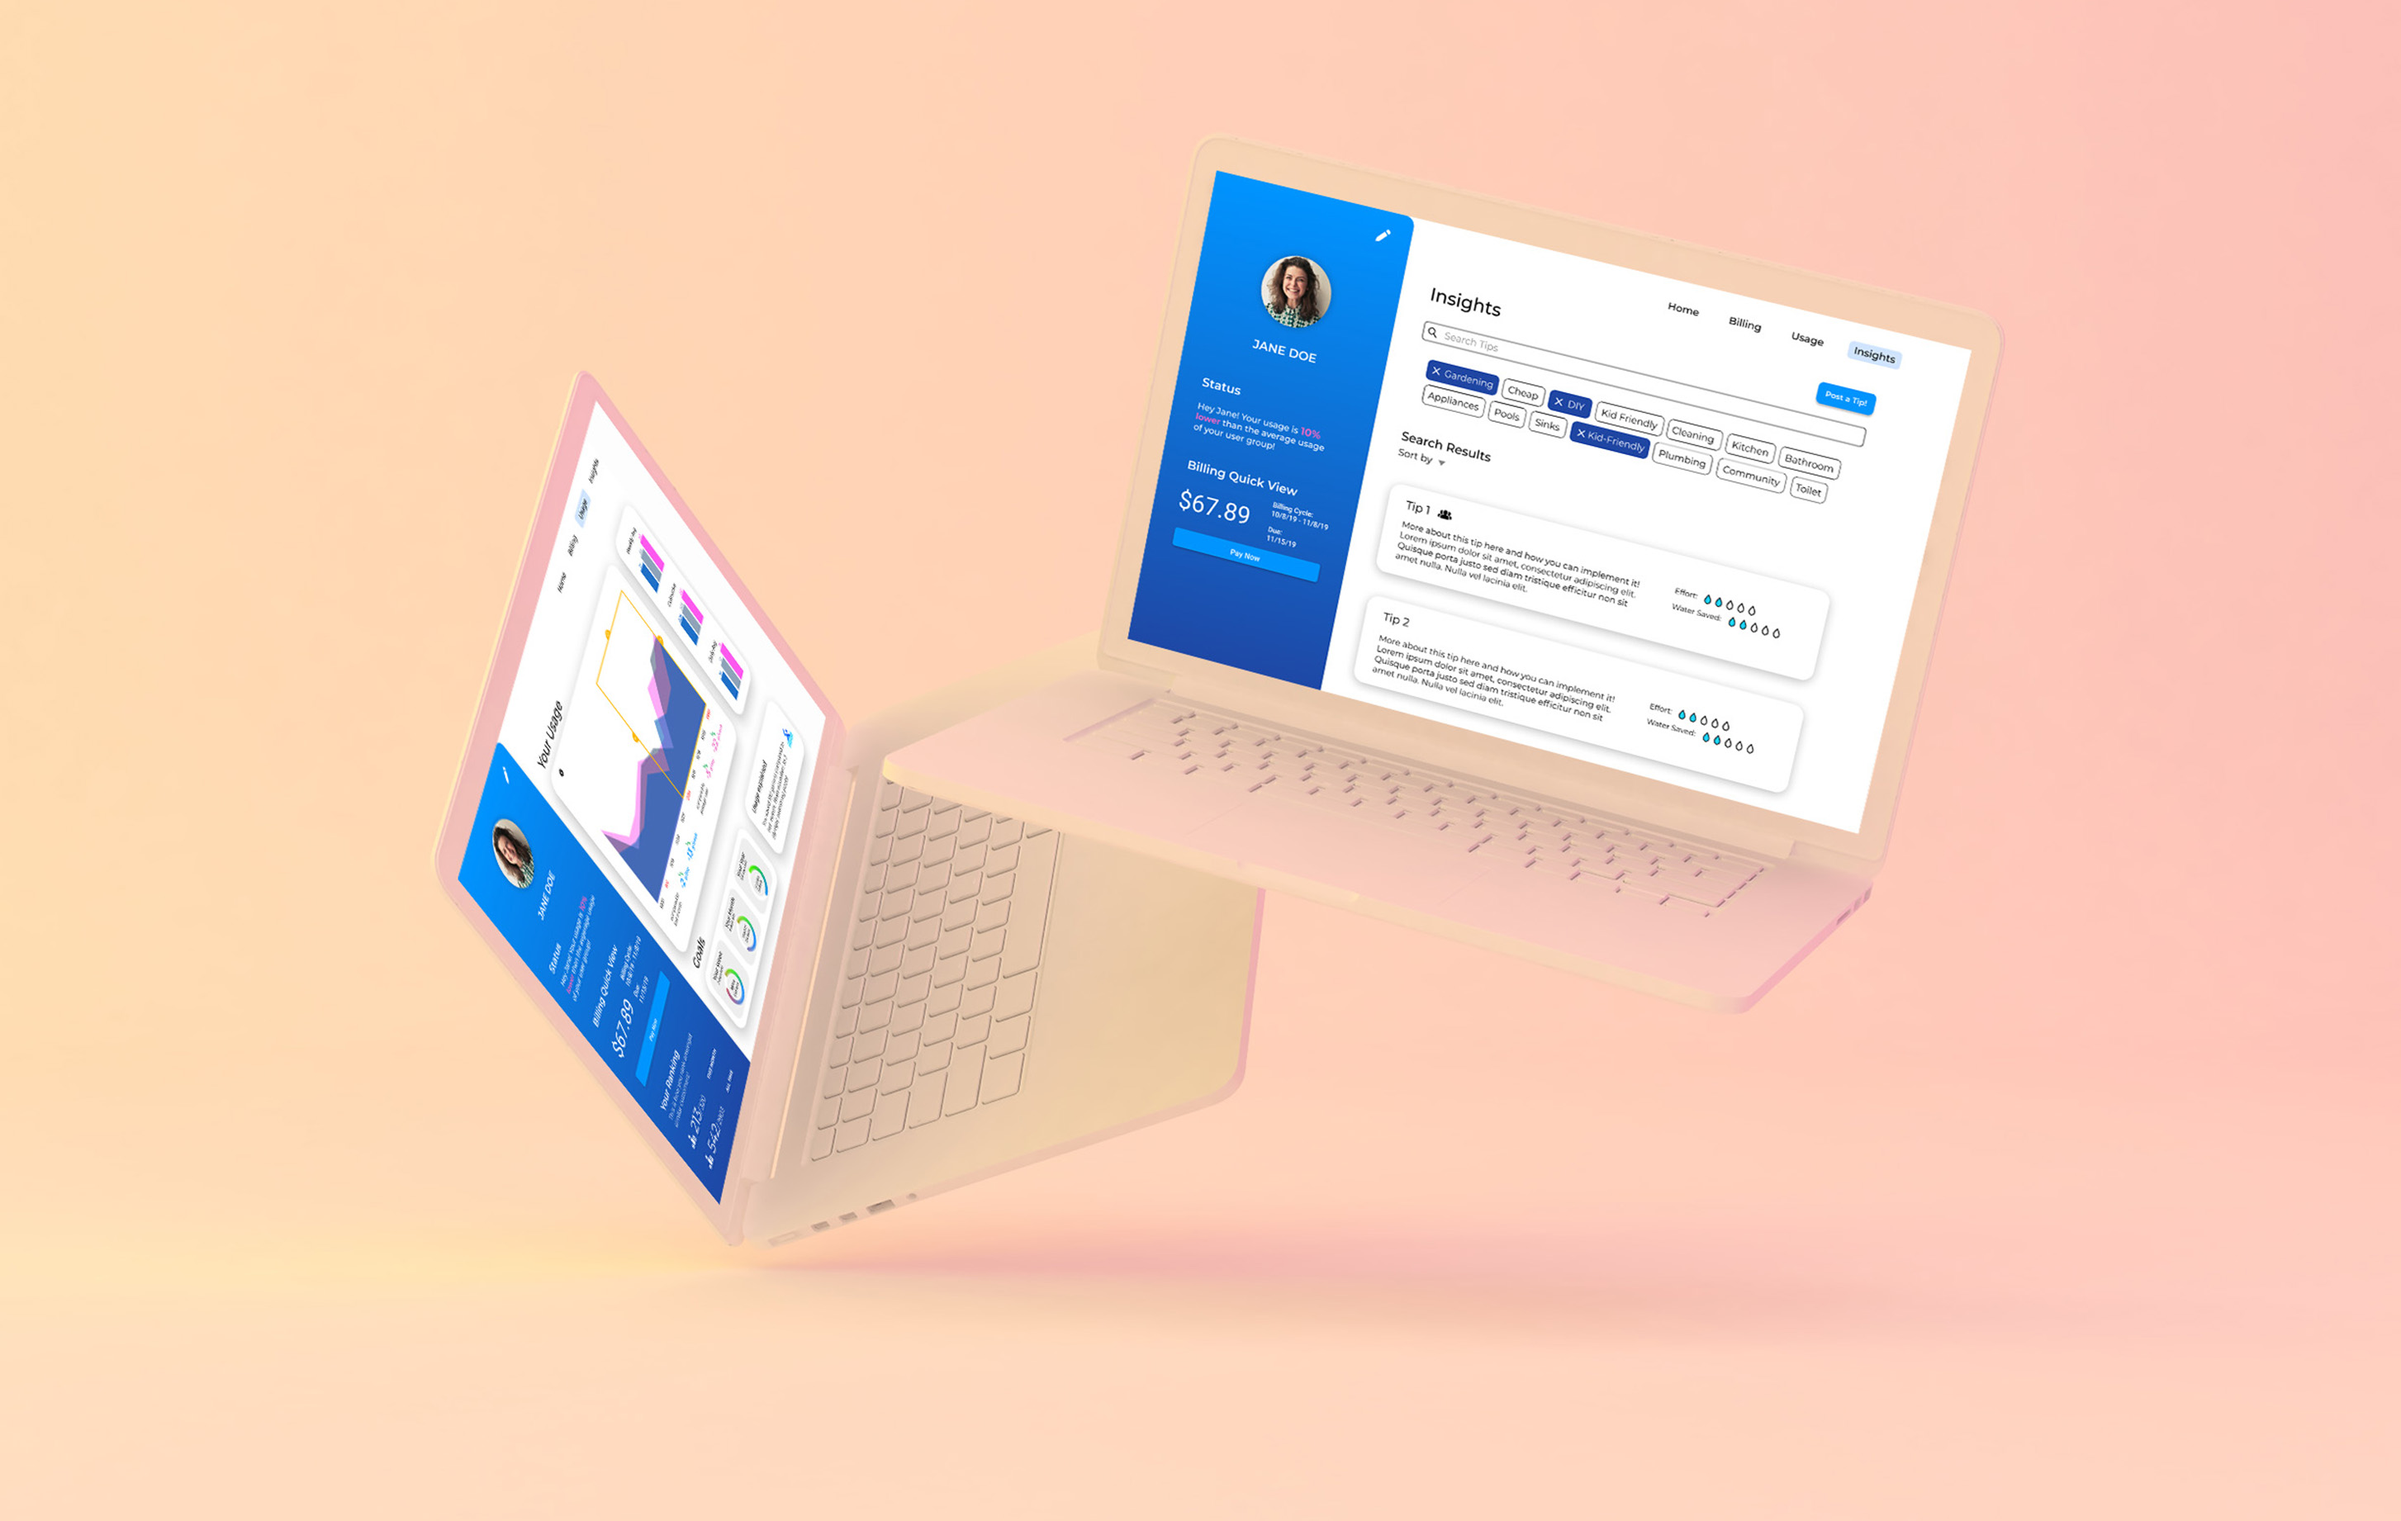
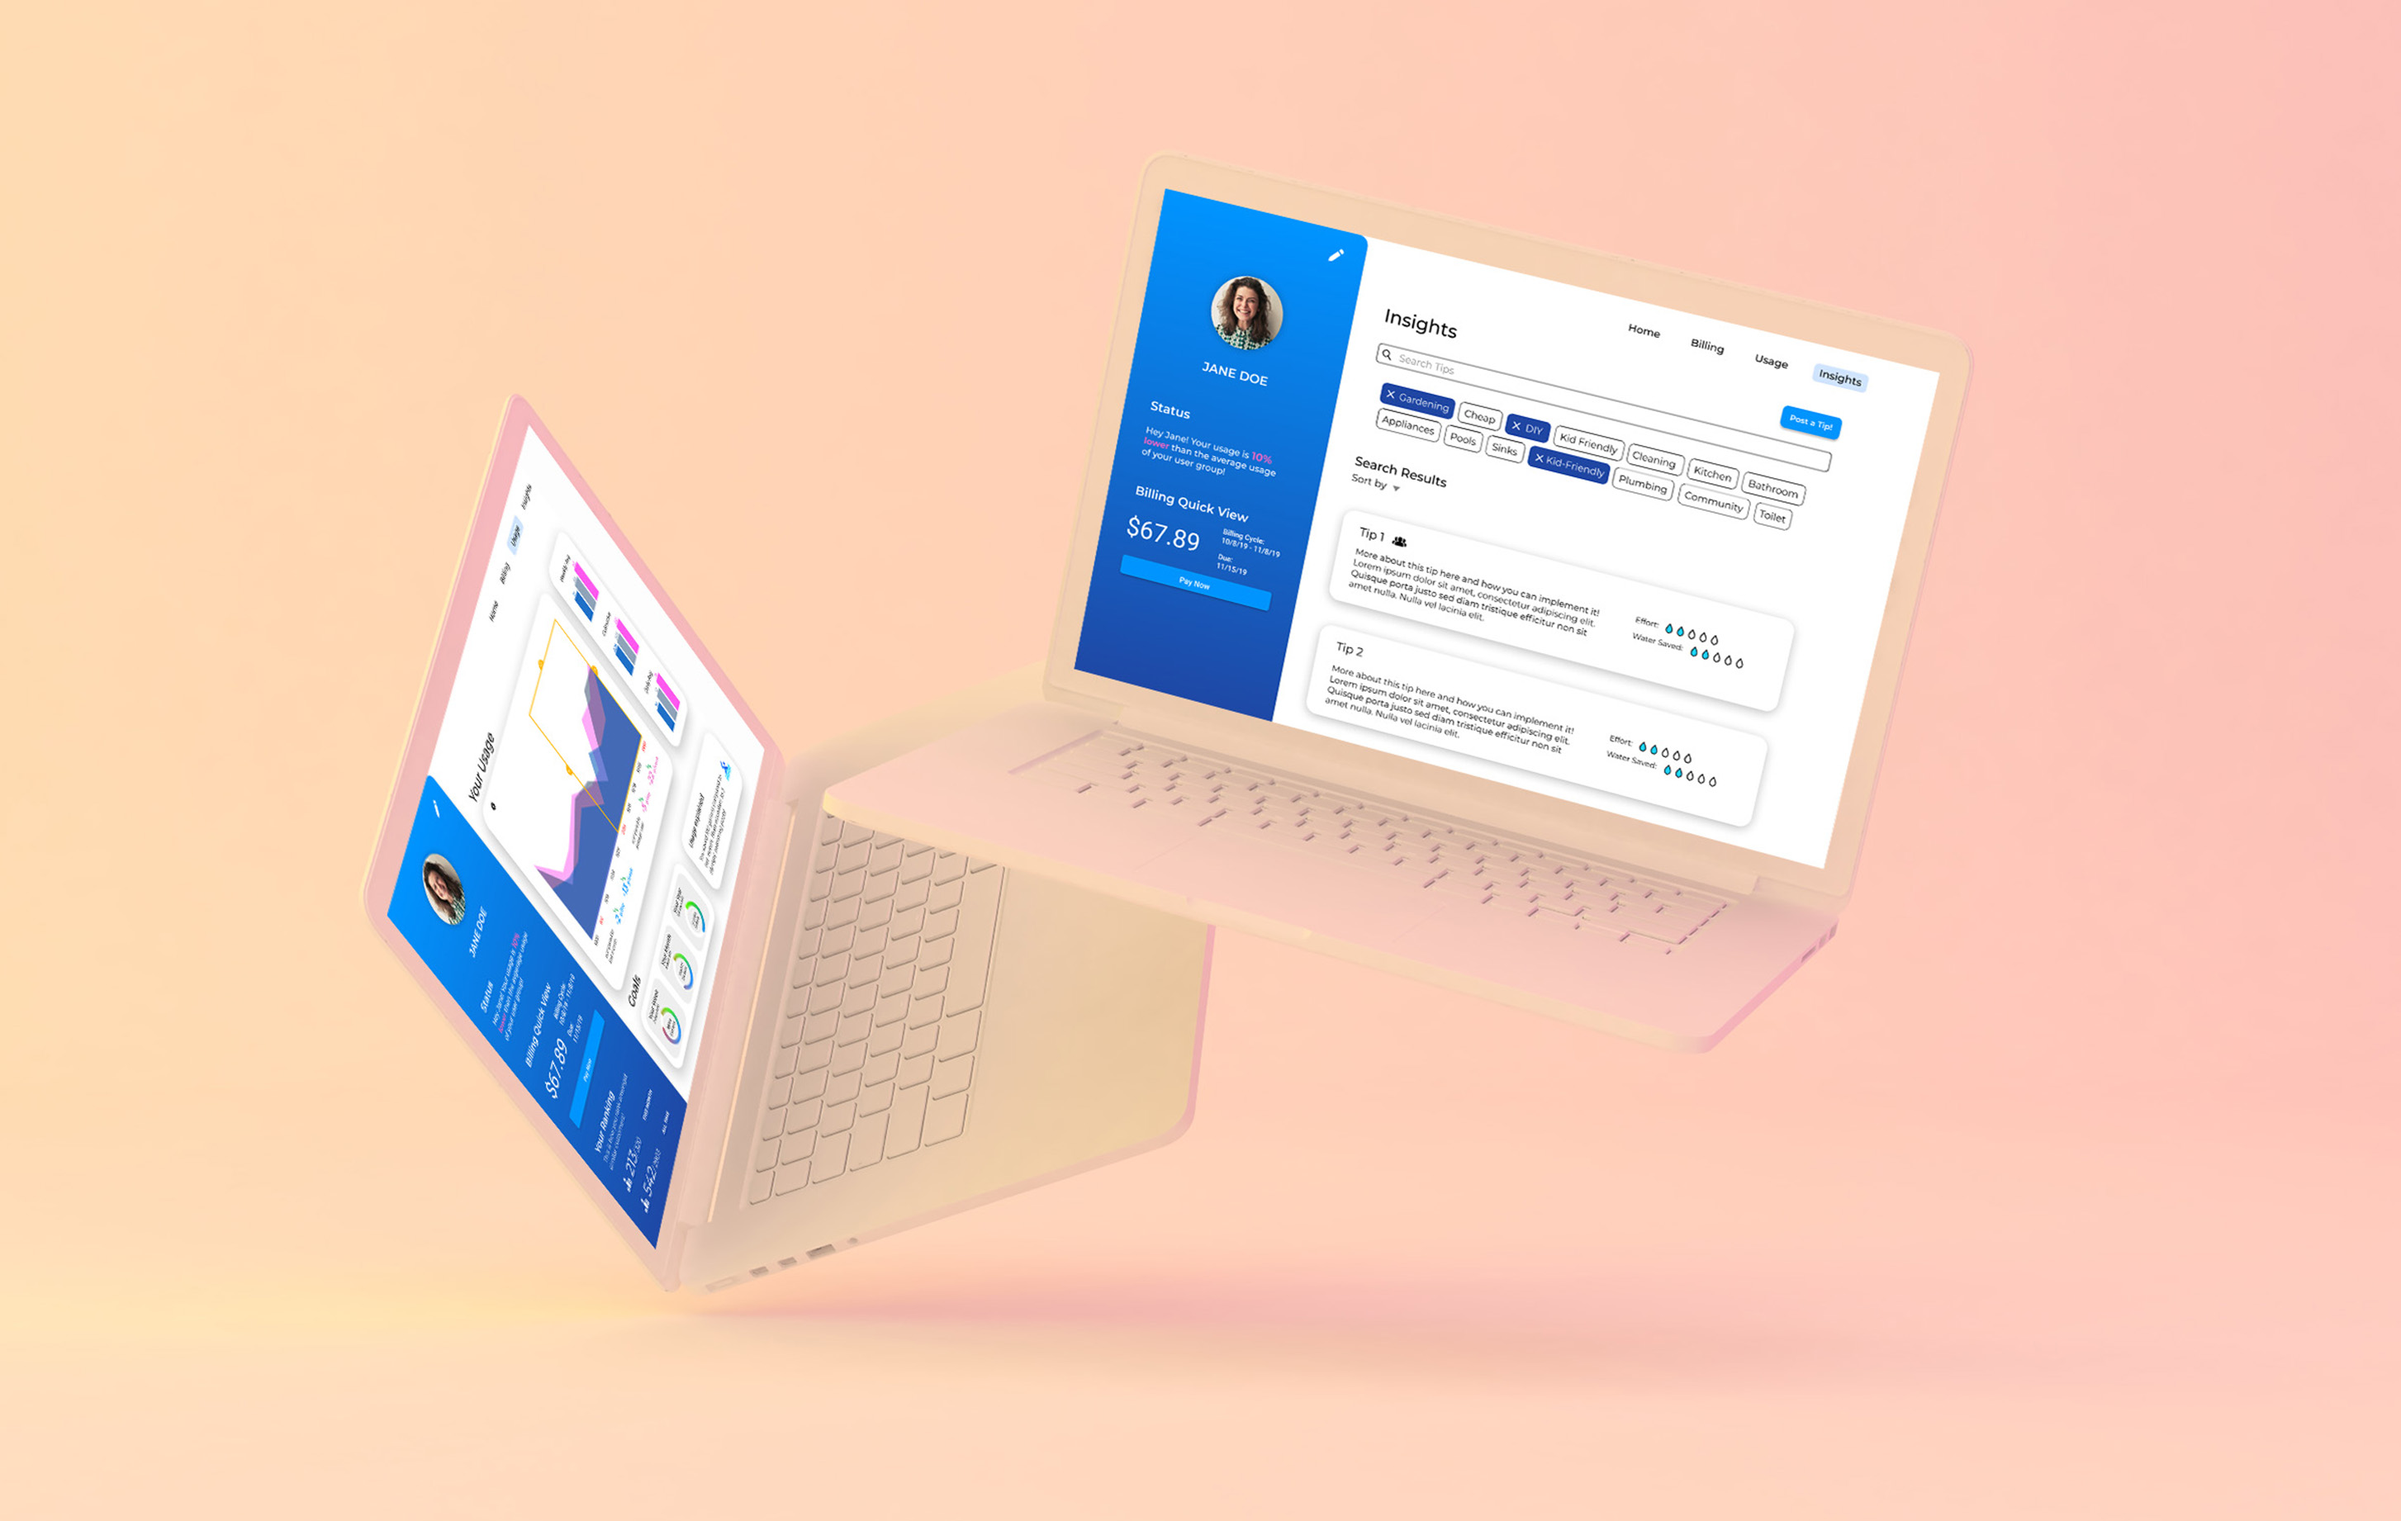
updates

Changed region(s): [[0.4334, 0.0928, 0.8359, 0.6189], [0.1548, 0.2476, 0.4334, 0.8664], [0.4954, 0.557, 0.5263, 0.7117]]

diff --git a/index.html b/index.html
@@ -100,16 +100,17 @@
         </div>
       </div>
     </div>
+   
     <div class="container-fluid">
       <div class="row mb-5 no-gutters">
         <div class="col-sm-6 col-md-6 col-lg-6" data-aos="fade" data-aos-delay="100">
           <a href="portfolio-mayadashboard2.html" class="work-thumb">
             <div class="work-text">
-              <h2>Maya Dashboard</h2>
+              <h2>Maya Dashboard - Responsive dashboard website design</h2>
               <p> Water billing system focusing on sustainability and user understanding </p>
               <p> Skills: UX Design, Interaction Design </p>
             </div>
-            <img src="images/mayalarge.jpg" alt="Image" class="img-fluid">
+            <img src="images/mayacrazy.jpg" alt="Image" class="img-fluid">
           </a>
         </div>
 
@@ -117,8 +118,8 @@
         <div class="col-sm-6 col-md-6 col-lg-6" data-aos="fade" data-aos-delay="300">
           <a href="portfolio-artiot2.html" class="work-thumb">
             <div class="work-text">
-              <h2>Art IOT PGH</h2>
-              <p>Interactive app to bring locals closer to their art work in Pittsburgh</p>
+              <h2>Art IOT PGH - Augmented reality civic art application</h2>
+              <p>Interactive app to bring locals closer to their art work in Pittsburgh through co-creation</p>
               <p> Skills: UX Design, UX Research </p>
             </div>
             <img src="images/art1.jpg" alt="Image" class="img-fluid">
@@ -128,7 +129,7 @@
         <div class="col-sm-6 col-md-6 col-lg-6" data-aos="fade" data-aos-delay="200">
           <a href="portfolio-intelliboard.html" class="work-thumb">
             <div class="work-text">
-              <h2>Intelliboard: Interactive machine learning software</h2>
+              <h2>Intelliboard - Interactive machine learning software</h2>
               <p>Using a camera, a projector, and basic gesture recognition, we created a low cost machine learning driven smart board program</p>
               <p> Skills: ML Devolper, Interaction Design </p>
             </div>
@@ -152,14 +153,13 @@
         <div class="col-sm-6 col-md-6 col-lg-6" data-aos="fade" data-aos-delay="400">
           <a  class="work-thumb">
             <div class="work-text">
-              <h2>Coming soon - Fresh-air: A sleep apnea product service application for ResMed</h2>
+              <h2>Coming soon - Fresh-air - A sleep apnea product service application for ResMed</h2>
               <p>Design and exploration into changing the way customers purchase sleep apnea masks, products, and subspcriptions. </p>
               <p> Skills: UX Design, Interaction Design, Service Design </p>
             </div>
             <img src="images/resmed_hero1cover.jpg" alt="Image" class="img-fluid">
           </a>
         </div>
-
       </div>
       
       <div class="row mt-5">
@@ -177,7 +177,7 @@
       <div class="row">
         <div class="col-lg-6 ml-auto mb-5 order-2" data-aos="fade-up" data-aos-delay="100">
           <div class="rainbow" >
-            <h2> I am passionate about design, strategy, and product implementation. Let's make something together. </h2>
+            <h2> I am passionate about design, strategy, and interaction. Let's make something together. </h2>
           </div>
           <p>&nbsp;</p>
           <p> Design is passion of mine stemming from my love of visual arts and shaped by my industrial design background. My professional design career has included a position at NASA Johnson Space Center as a habitat designer, a lead furniture designer at Rottet Studios in Houston, and now my continuing education at Carnegie Mellon perusing my masters in Human Computer Interaction. </p>
@@ -297,7 +297,7 @@
       <div class="row">
         <div class="col-12 text-md-center text-left">
           <p class="text-white small">
-            Parker Nussbaum | Winter  &copy;<script>document.write(new Date().getFullYear());</script> 
+            Parker Nussbaum  &copy;<script>document.write(new Date().getFullYear());</script> 
             </p>
         </div>
       </div>

diff --git a/portfolio.html b/portfolio.html
@@ -100,24 +100,26 @@
         </div>
       </div>
     </div>
-    <div class="container-fluid">
+
+   <div class="container-fluid">
       <div class="row mb-5 no-gutters">
         <div class="col-sm-6 col-md-6 col-lg-6" data-aos="fade" data-aos-delay="100">
           <a href="portfolio-mayadashboard2.html" class="work-thumb">
             <div class="work-text">
-              <h2>Maya Dashboard</h2>
+              <h2>Maya Dashboard - Responsive dashboard website design</h2>
               <p> Water billing system focusing on sustainability and user understanding </p>
               <p> Skills: UX Design, Interaction Design </p>
             </div>
-            <img src="images/maya.jpg" alt="Image" class="img-fluid">
+            <img src="images/mayacrazy.jpg" alt="Image" class="img-fluid">
           </a>
         </div>
+
 
         <div class="col-sm-6 col-md-6 col-lg-6" data-aos="fade" data-aos-delay="300">
           <a href="portfolio-artiot2.html" class="work-thumb">
             <div class="work-text">
-              <h2>Art IOT PGH</h2>
-              <p>Intereactive app to bring locals closer to their art work in Pittsburgh</p>
+              <h2>Art IOT PGH - Augmented reality civic art application</h2>
+              <p>Interactive app to bring locals closer to their art work in Pittsburgh through co-creation</p>
               <p> Skills: UX Design, UX Research </p>
             </div>
             <img src="images/art1.jpg" alt="Image" class="img-fluid">
@@ -127,23 +129,35 @@
         <div class="col-sm-6 col-md-6 col-lg-6" data-aos="fade" data-aos-delay="200">
           <a href="portfolio-intelliboard.html" class="work-thumb">
             <div class="work-text">
-              <h2>Intelliboard: Interactive machine learning software</h2>
+              <h2>Intelliboard - Interactive machine learning software</h2>
               <p>Using a camera, a projector, and basic gesture recognition, we created a low cost machine learning driven smart board program</p>
               <p> Skills: ML Devolper, Interaction Design </p>
             </div>
             <img src="images/whiteboardcover.png" alt="Image" class="img-fluid">
           </a>
         </div>
-
-
+        
+   <!--User Exp Projects 
         <div class="col-sm-6 col-md-6 col-lg-6" data-aos="fade" data-aos-delay="400">
-          <a href="portfolio-single.html" class="work-thumb">
+          <a href="portfolio-mayadashboard.html" class="work-thumb">
             <div class="work-text">
               <h2>PTF Pass Display Screens</h2>
               <p>Design and exploration into changing the way customers travel in the San Juan transit district </p>
               <p> Skills: UX Design, Interaction Design </p>
             </div>
             <img src="images/ptf1.jpg" alt="Image" class="img-fluid">
+          </a>
+        </div>
+-->
+
+        <div class="col-sm-6 col-md-6 col-lg-6" data-aos="fade" data-aos-delay="400">
+          <a  class="work-thumb">
+            <div class="work-text">
+              <h2>Coming soon - Fresh-air - A sleep apnea product service application for ResMed</h2>
+              <p>Design and exploration into changing the way customers purchase sleep apnea masks, products, and subspcriptions. </p>
+              <p> Skills: UX Design, Interaction Design, Service Design </p>
+            </div>
+            <img src="images/resmed_hero1cover.jpg" alt="Image" class="img-fluid">
           </a>
         </div>
       </div>
@@ -362,7 +376,7 @@
       <div class="row">
         <div class="col-12 text-md-center text-left">
           <p class="text-white small">
-            Parker Nussbaum | Winter  &copy;<script>document.write(new Date().getFullYear());</script> 
+            Parker Nussbaum  &copy;<script>document.write(new Date().getFullYear());</script> 
             </p>
         </div>
       </div>
